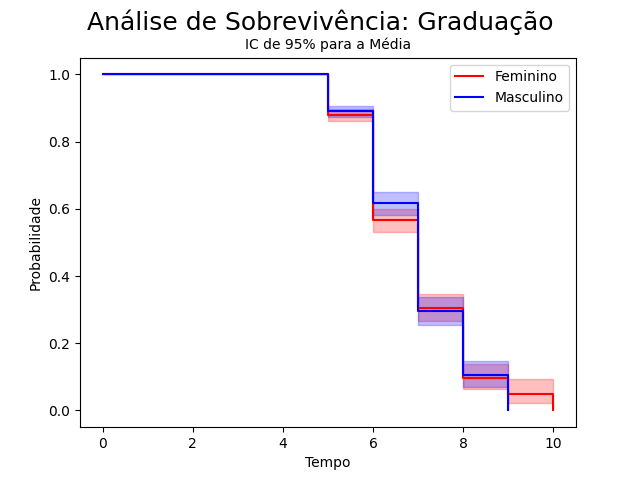
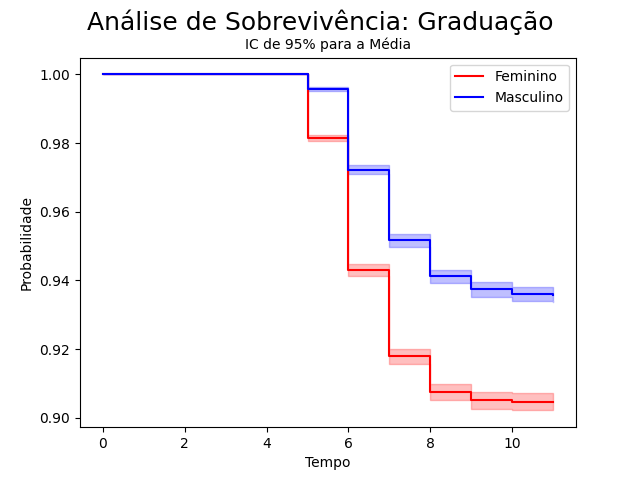
testes

diff --git a/simulation.py b/simulation.py
@@ -22,7 +22,7 @@ def sobrevivencia(time, event_observed, label, color, title):
 
 
 def prob_and_temp(state, x, tempo, quantAlunos):
-    print(f"\nProbabilidade de ser {state}: {np.round(x / quantAlunos * 100)} %")
+    print(f"\nProbabilidade de ser {state}: {np.round(x / quantAlunos * 100, 1)} %")
     print(f"Tempo médio até ser {state}: {np.round(np.mean(tempo), 3)} anos")
 
 
@@ -31,6 +31,7 @@ def Simu(quantAlunos, matriz):
     g = 0
     r = 0
     t = 0
+    anos = 12  # antes a.nb_state
     time = np.array([])
     tempo_ate_retido = []
     tempo_ate_trancado = []
@@ -45,11 +46,12 @@ def Simu(quantAlunos, matriz):
         a = Student(i, matriz)
         list(a.gen)
         arr = a.history
+        #anos = a.nb_state
 
-        tempo = np.arange(0, a.nb_state, 1)
+        tempo = np.arange(0, anos, 1)
         time = np.concatenate((time, tempo))
 
-        estados = np.zeros((a.nb_state,), dtype=int)
+        estados = np.zeros((anos,), dtype=int)
         if 'E' in arr:
             e += 1  # quantidade para probabilidade
             k = arr.index("E")
@@ -57,7 +59,7 @@ def Simu(quantAlunos, matriz):
             estados[k] = 1
         event_observedE = np.concatenate((event_observedE, estados))
 
-        estados = np.zeros((a.nb_state,), dtype=int)
+        estados = np.zeros((anos,), dtype=int)
         if 'G' in arr:
             g += 1  # quantidade para probabilidade
             k = arr.index("G")
@@ -66,7 +68,7 @@ def Simu(quantAlunos, matriz):
         event_observedG = np.concatenate((event_observedG, estados))
 
         # Trancado
-        estados = np.zeros((a.nb_state,), dtype=int)
+        estados = np.zeros((anos,), dtype=int)
         i = 1
         while i < len(arr):
             if arr[i] == arr[i-1]:  # se estado igual ao estado anterior
@@ -84,7 +86,7 @@ def Simu(quantAlunos, matriz):
             i += 1
 
         # Retido
-        estados = np.zeros((a.nb_state,), dtype=int)
+        estados = np.zeros((anos,), dtype=int)
         count = 0
         for estado in arr:
             if 'R' in estado:
@@ -102,23 +104,22 @@ def Simu(quantAlunos, matriz):
             count += 1
 
     prob_and_temp("Retido", r, tempo_ate_retido, quantAlunos)
+    prob_and_temp("Trancado", t, tempo_ate_trancado, quantAlunos)
     prob_and_temp("Evadido", e, tempo_ate_evadido, quantAlunos)
     prob_and_temp("Graduado", g, tempo_ate_graduado, quantAlunos)
-    prob_and_temp("Trancado", t, tempo_ate_trancado, quantAlunos)
-
 
     return time, event_observedE, event_observedG, event_observedR, event_observedT
 
 
 
-quantAlunos = 1000
+quantAlunos = 10000
 
 
 # Simulação por Gênero
 print("\nFeminino")
 timeF, event_observedEF, event_observedGF, event_observedRF, event_observedTF = Simu(quantAlunos, 'matrix/matrixF.csv')
 print("\nMasculino")
-timeM, event_observedEM, event_observedGM, event_observedRM, event_observedTM = Simu(quantAlunos, 'matrix/matrixM.csv')
+timeM, event_observedEM, event_observedGM, event_observedRM, event_observedTM = Simu(quantAlunos, 'matrix/matrixM50.csv')
 
 times = [timeF, timeM]
 eventsE = [event_observedEF, event_observedEM]
@@ -128,10 +129,10 @@ eventsT = [event_observedTF, event_observedTM]
 colors = ["red", "blue"]
 labels = ["Feminino", "Masculino"]
 
-sobrevivencia(times, eventsE, labels, colors, "Evasão")
-sobrevivencia(times, eventsG, labels, colors, "Graduação")
 sobrevivencia(times, eventsR, labels, colors, "Retenção")
 sobrevivencia(times, eventsT, labels, colors, "Trancado")
+sobrevivencia(times, eventsE, labels, colors, "Evasão")
+sobrevivencia(times, eventsG, labels, colors, "Graduação")
 
 
 # Simulação Geral

diff --git a/generate_mc.py b/generate_mc.py
@@ -5,11 +5,11 @@ from markov_diagram import Diagram
 from pydtmc import MarkovChain, plot_graph, plot_walk
 
 # Alterar aqui parametros para gerar matriz
-nomeArquivo = "matrix/matrixM.csv"
-taxaRetencao = 1.25
-taxaEvasao = 1.25
-taxaEvasaoR = 1.0
+nomeArquivo = "matrix/matrixF.csv"
+taxaRetencao = 1.0
+taxaEvasao = 1.0
 taxaTrancar = 1.0
+taxaEvasaoR = 1.0
 taxaTrancarR = 1.0
 taxaProporcaoEvasao = 1.5
 taxaProporcaoTrancar = 1.25
@@ -174,7 +174,7 @@ def transition_matrix(transitions):
 # p = transition_matrix(t)
 
 
-p = np.round(p, 4)
+#p = np.round(p, 4)
 generate_csv_and_diagram(nomeArquivo, states, p)
 
 
